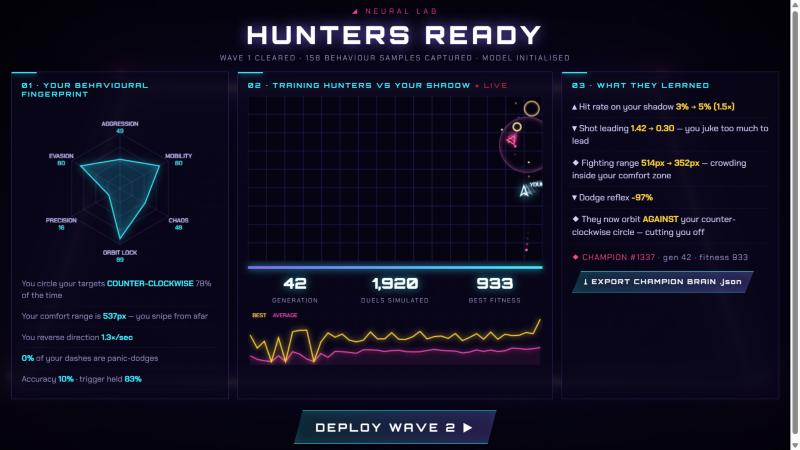
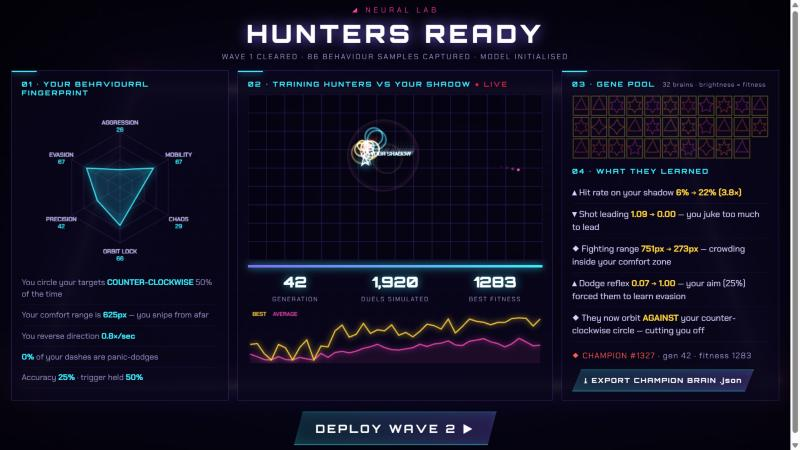
Final-kill camera punch, gene pool view in the Neural Lab

diff --git a/js/render.js b/js/render.js
@@ -78,7 +78,7 @@ export class Renderer {
     this.reticle.visible = false; this.scene.add(this.reticle);
     this.grid = new Grid(this.scene);
     this._arena(); this._stars(); this._bullets();
-    this.trauma = 0; this.aberr = 0; this.damage = 0; this.warp = 0; this.time = 0;
+    this.trauma = 0; this.aberr = 0; this.damage = 0; this.warp = 0; this.time = 0; this.zoom = 0; this.zoomAt = new THREE.Vector3();
     this.focus = new THREE.Vector3();
     this.raycaster = new THREE.Raycaster(); this.plane = new THREE.Plane(new THREE.Vector3(0, 1, 0), -10);
     this.resize();
@@ -229,6 +229,7 @@ export class Renderer {
   }
   shake(t) { this.trauma = Math.min(1, this.trauma + t); }
   kick(a) { this.aberr = Math.min(1, this.aberr + a); }
+  punch(x, y) { this.zoom = 1; this.zoomAt.set(toX(x), 0, toZ(y)); }
   hurt() { this.damage = 1; this.kick(0.6); this.shake(0.6); }
 
   screenToWorld(sx, sy) {
@@ -264,7 +265,14 @@ export class Renderer {
       this.camBase.y + Math.sin(t * 39) * 18 * s,
       this.camBase.z + this.focus.z + Math.cos(t * 43) * 22 * s);
     this.camera.up.set(0, 1, 0);
-    this.camera.lookAt(this.look.x + this.focus.x, 0, this.look.z + this.focus.z);
+    const L = new THREE.Vector3(this.look.x + this.focus.x, 0, this.look.z + this.focus.z);
+    if (this.zoom > 0) {
+      this.zoom = Math.max(0, this.zoom - dt * 0.8);
+      const z = this.zoom, k = z * z * (3 - 2 * z) * 0.8;
+      const pz = this.zoomAt.clone().add(this.camera.position.clone().sub(L).multiplyScalar(0.5));
+      this.camera.position.lerp(pz, k); L.lerp(this.zoomAt, k);
+    }
+    this.camera.lookAt(L);
     this.camera.rotation.z += Math.sin(t * 31) * 0.02 * s;
     this.stars.rotation.y += dt * 0.006;
     const pu = this.post.uniforms;

diff --git a/js/ui.js b/js/ui.js
@@ -101,6 +101,22 @@ export class UI {
     line('best', '#ffd23c');
     c.font = '600 10px "Chakra Petch", monospace'; c.fillStyle = '#ffd23c'; c.fillText('BEST', 8, 12); c.fillStyle = '#ff50be'; c.fillText('AVERAGE', 44, 12);
   }
+  genePool(canvas, gs, evaluated, champ) {
+    const c = canvas.getContext('2d'), w = canvas.width, h = canvas.height;
+    c.clearRect(0, 0, w, h);
+    const cols = 11, rows = Math.ceil(gs.length / cols), cw = w / cols, ch = h / rows;
+    let max = 1; for (let i = 0; i < evaluated; i++) max = Math.max(max, gs[i].fitness);
+    gs.forEach((g, i) => {
+      const cx = (i % cols + 0.5) * cw, cy = ((i / cols | 0) + 0.5) * ch, ph = g.pheno;
+      const done = i < evaluated, f = done ? Math.max(0.08, g.fitness / max) : 0.18;
+      c.save(); c.translate(cx, cy); c.rotate(-Math.PI / 2);
+      c.strokeStyle = `hsla(${ph.hue},100%,62%,${0.25 + f * 0.75})`; c.shadowColor = c.strokeStyle; c.shadowBlur = done ? 14 * f : 0; c.lineWidth = 1.6;
+      c.beginPath();
+      for (let k = 0; k <= ph.spikes * 2; k++) { const a = k / (ph.spikes * 2) * Math.PI * 2, r = (k % 2 ? ph.inner : (k === 0 ? 1.3 : 1)) * 13; c.lineTo(Math.cos(a) * r, Math.sin(a) * r); }
+      c.stroke(); c.restore();
+      if (g === champ) { c.strokeStyle = '#ffd23c'; c.shadowColor = '#ffd23c'; c.shadowBlur = 10; c.lineWidth = 1.5; c.strokeRect(cx - cw / 2 + 2, cy - ch / 2 + 2, cw - 4, ch - 4); c.shadowBlur = 0; }
+    });
+  }
   // mini arena of the featured duel
   arena(canvas, duel, fx) {
     const c = canvas.getContext('2d'), w = canvas.width, h = canvas.height, sx = w / W, sy = h / H;

diff --git a/js/game.js b/js/game.js
@@ -310,6 +310,7 @@ export class Game {
   killHunter(h) {
     const R = this.R;
     h.dead = true; this.hunterKills++;
+    if (!this.demo && this.state === 'wave' && !this.spawnQ.some(s => s.kind !== 'drones') && !this.shadow && this.hunters.every(o => o.dead)) { this.slowmo = 1.1; R.punch(h.x, h.y); this.ui.popup(h.x, h.y - 50, 'FINAL KILL', 'big'); }
     R.fx.explode(h.x, h.y, h.color, 1.25); R.grid.push(h.x, h.y, 520, 230); R.shake(0.32); R.kick(0.25);
     this.hitstop = Math.max(this.hitstop, 0.045);
     this.audio.boom(1.2);
@@ -336,7 +337,7 @@ export class Game {
       const R = this.R;
       for (let i = 0; i < 5; i++) setTimeout(() => { R.fx.explode(sh.x + (Math.random() - 0.5) * 120, sh.y + (Math.random() - 0.5) * 120, hdr(3, 0.2, 0.3), 1.4); this.audio.boom(1.4); R.shake(0.3); }, i * 110);
       setTimeout(() => { R.fx.explode(sh.x, sh.y, hdr(3, 1.4, 1.2), 3.2); R.grid.push(sh.x, sh.y, 1600, 600); R.shake(1); R.kick(1); R.warp = 0.8; this.audio.nova(); }, 600);
-      this.slowmo = 1.4;
+      this.slowmo = 1.4; this.R.punch(sh.x, sh.y);
       this.registerKill(20);
       this.addScore(5000, sh.x, sh.y, true);
       this.drop(sh.x - 30, sh.y, 'hp'); this.drop(sh.x + 30, sh.y, 'nova');

diff --git a/style.css b/style.css
@@ -97,6 +97,7 @@ kbd { display: inline-block; padding: 1px 6px; border: 1px solid var(--line); bo
 .panel::before { content: ''; position: absolute; top: 0; left: 0; width: 40px; height: 2px; background: var(--cyan); box-shadow: 0 0 12px var(--cyan); }
 .panel h3 { font: 700 11px 'Orbitron', sans-serif; letter-spacing: .2em; color: var(--cyan); margin-bottom: 10px; }
 .panel canvas { display: block; width: 100%; height: auto; }
+.dimh { color: var(--dim); font: 400 10px 'Chakra Petch', monospace; letter-spacing: .08em; margin-left: 6px; }
 .live { color: var(--red); animation: pulse .8s infinite alternate; }
 @keyframes pulse { from { opacity: .35; } to { opacity: 1; } }
 #insights, #learned { list-style: none; margin-top: 8px; }

diff --git a/js/main.js b/js/main.js
@@ -175,6 +175,8 @@ function updateLab(dt) {
   ui.radar($('radar'), lab.model, lab.prev, Math.min(1, lab.t / 0.8));
   ui.arena($('arena'), d, lab.fx);
   ui.fitness($('fitness'), pop.history);
+  if (trainer.running) ui.genePool($('pool'), pop.genomes, trainer.idx, null);
+  else ui.genePool($('pool'), pop.lastGen || pop.genomes, (pop.lastGen || pop.genomes).length, pop.champion);
   $('lgen').textContent = pop.generation;
   $('lduels').textContent = trainer.totalDuels.toLocaleString('en-US');
   const last = pop.history[pop.history.length - 1];

diff --git a/index.html b/index.html
@@ -78,7 +78,9 @@
         <canvas id="fitness" width="520" height="96"></canvas>
       </section>
       <section class="panel">
-        <h3>03 · WHAT THEY LEARNED</h3>
+        <h3>03 · GENE POOL <span class="dimh">32 brains · brightness = fitness</span></h3>
+        <canvas id="pool" width="360" height="118"></canvas>
+        <h3 style="margin-top:12px">04 · WHAT THEY LEARNED</h3>
         <ul id="learned"></ul>
         <div id="champ"></div>
         <button id="export" class="btn mini hidden">⤓ EXPORT CHAMPION BRAIN .json</button>

diff --git a/js/nn.js b/js/nn.js
@@ -86,6 +86,7 @@ export class Population {
     const avg = pop.reduce((s, g) => s + g.fitness, 0) / pop.length;
     this.history.push({ gen: this.generation, best: pop[0].fitness, avg });
     this.champion = pop[0];
+    this.lastGen = this.genomes.slice();
     this.generation++;
     const next = [];
     for (let i = 0; i < GA.elite; i++) {
